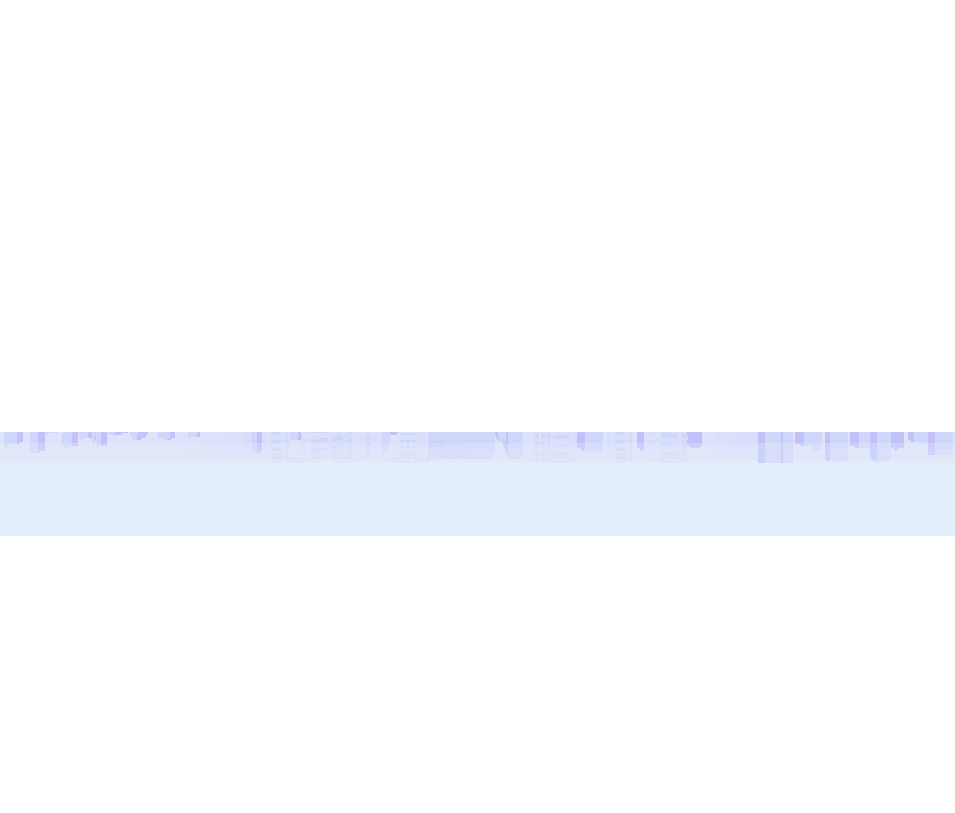
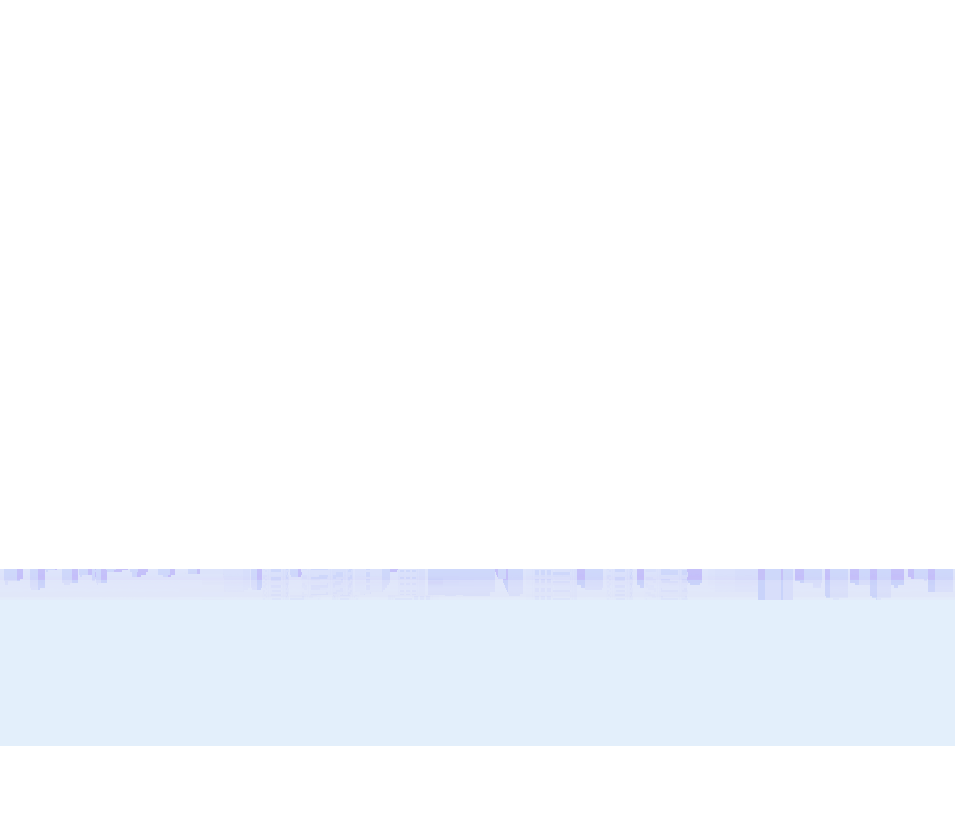
Update

diff --git a/assets/css/normalize.css b/assets/css/normalize.css
@@ -183,6 +183,7 @@ img {
   image-rendering:-webkit-optimize-contrast;
   image-rendering:-moz-crisp-edges;
   image-rendering:pixelated;
+  object-position:bottom;
   
 }
 img.wand {
@@ -205,6 +206,7 @@ img.wand3 {
 img.wandbase {
     float: left;
     width: 100%;
+    height: 100vh;
 }
 /**
  * Correct overflow displayed oddly in IE 9.

diff --git a/assets/css/demo.css b/assets/css/demo.css
@@ -146,7 +146,6 @@ h3 {
 
 .wandbase {
     position:absolute;
-    bottom:-90%;
     left:0;
     object-fit:cover;
 }
